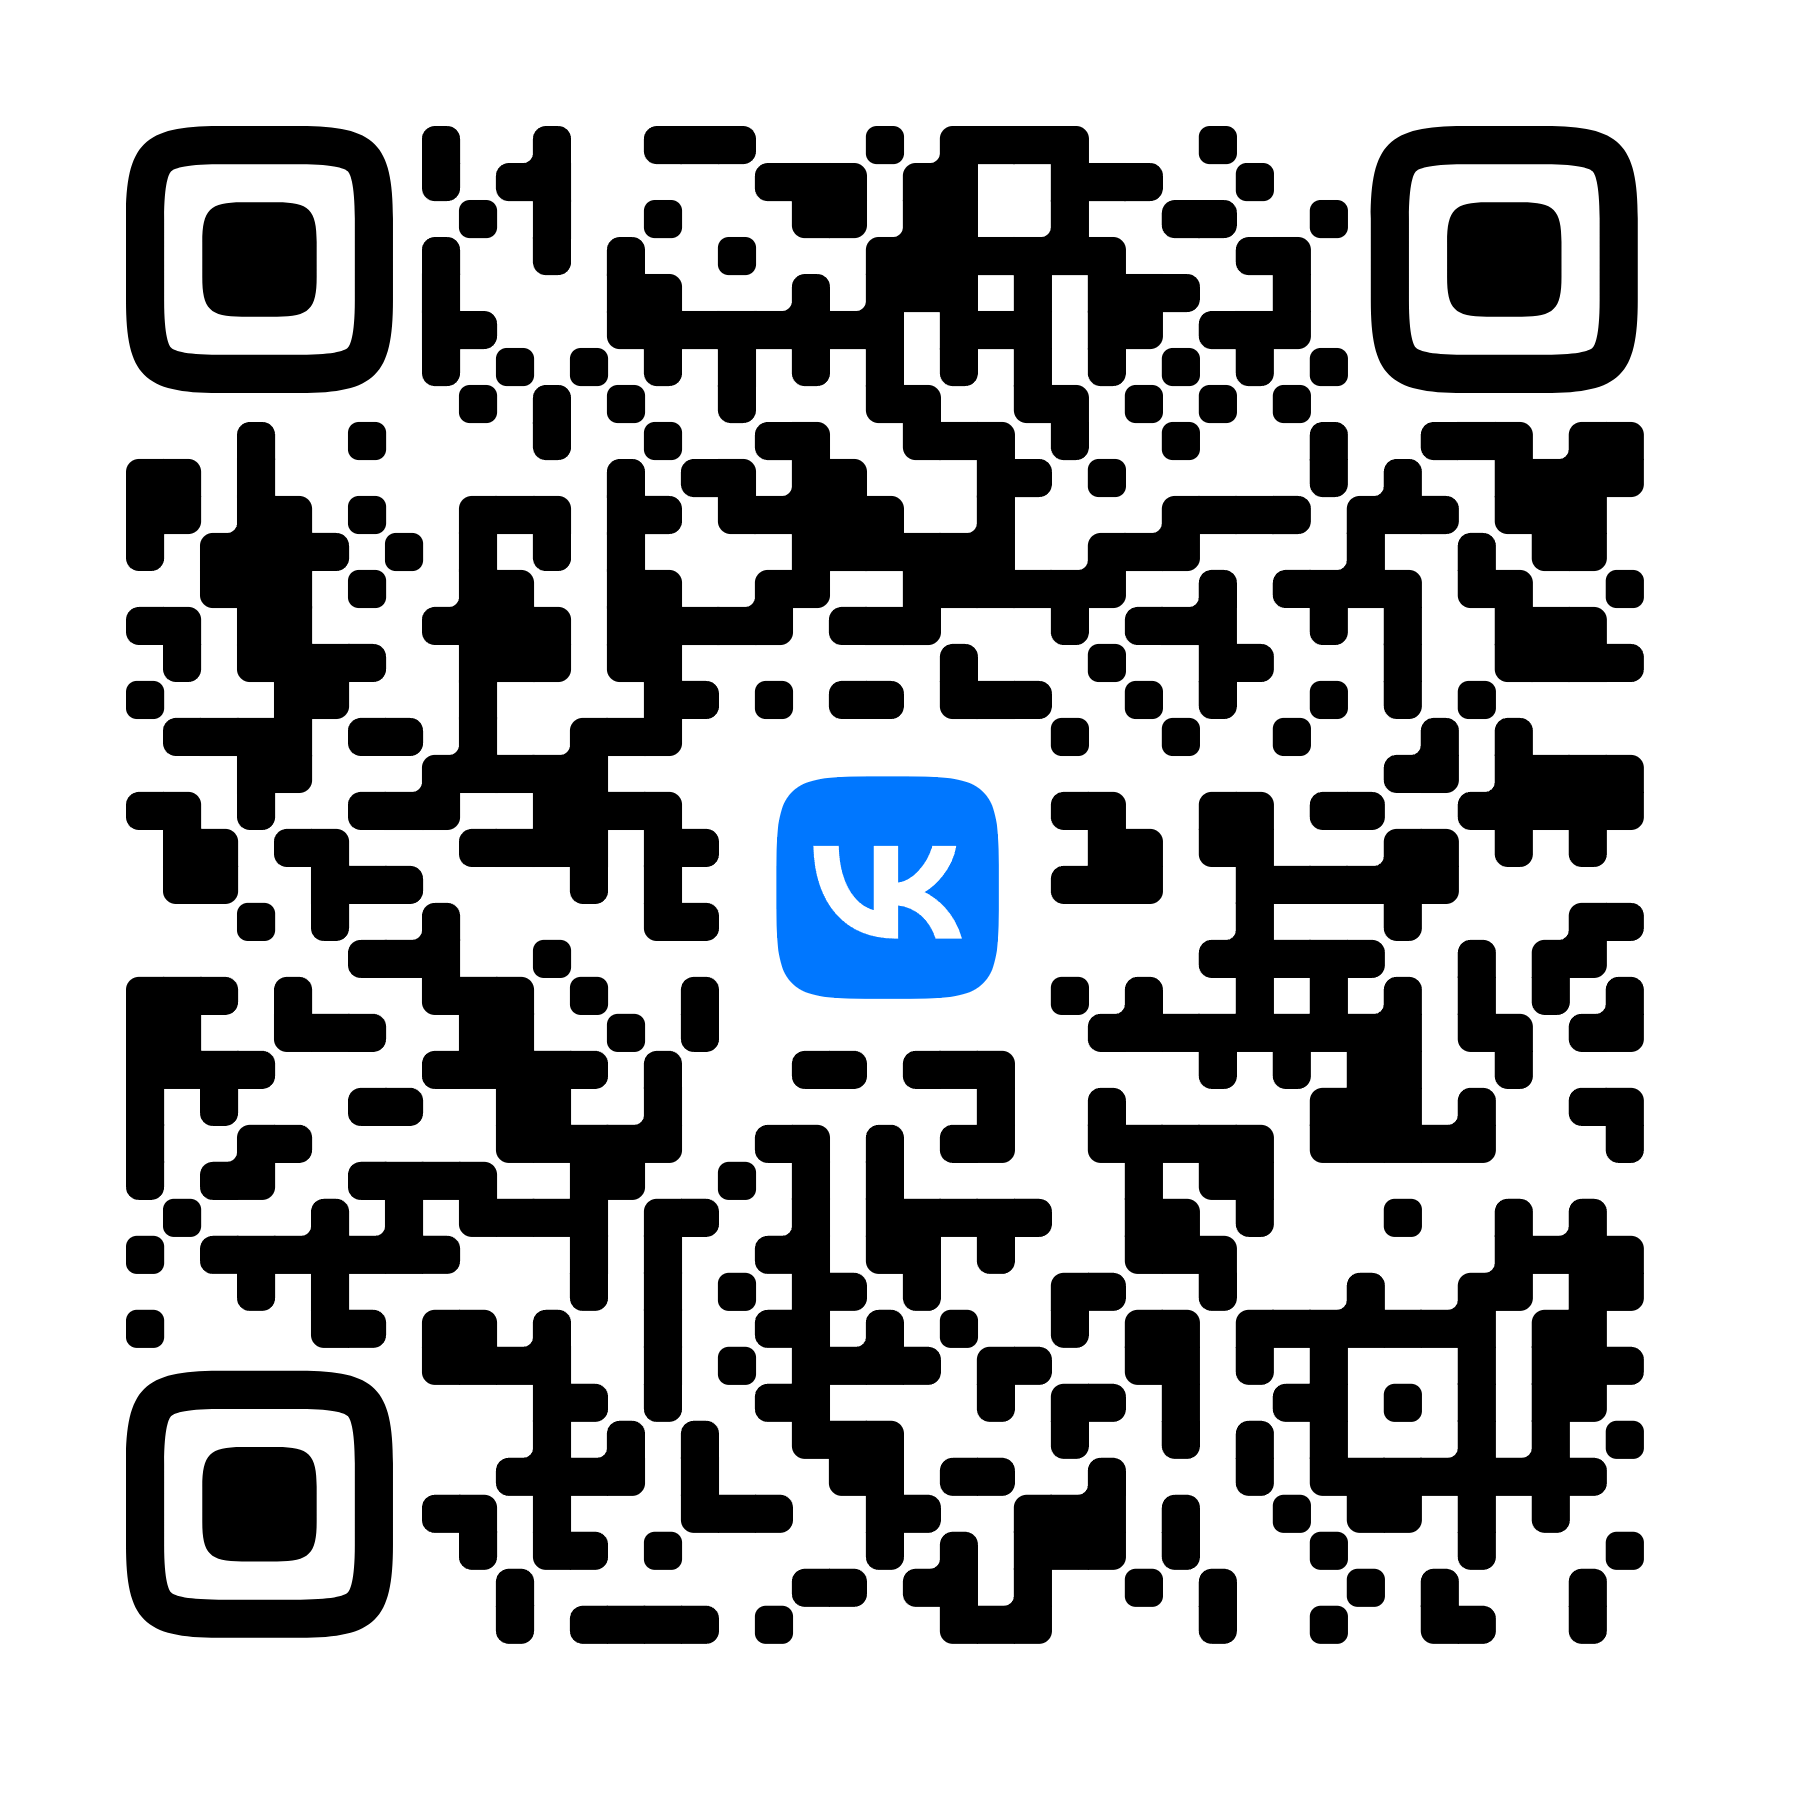
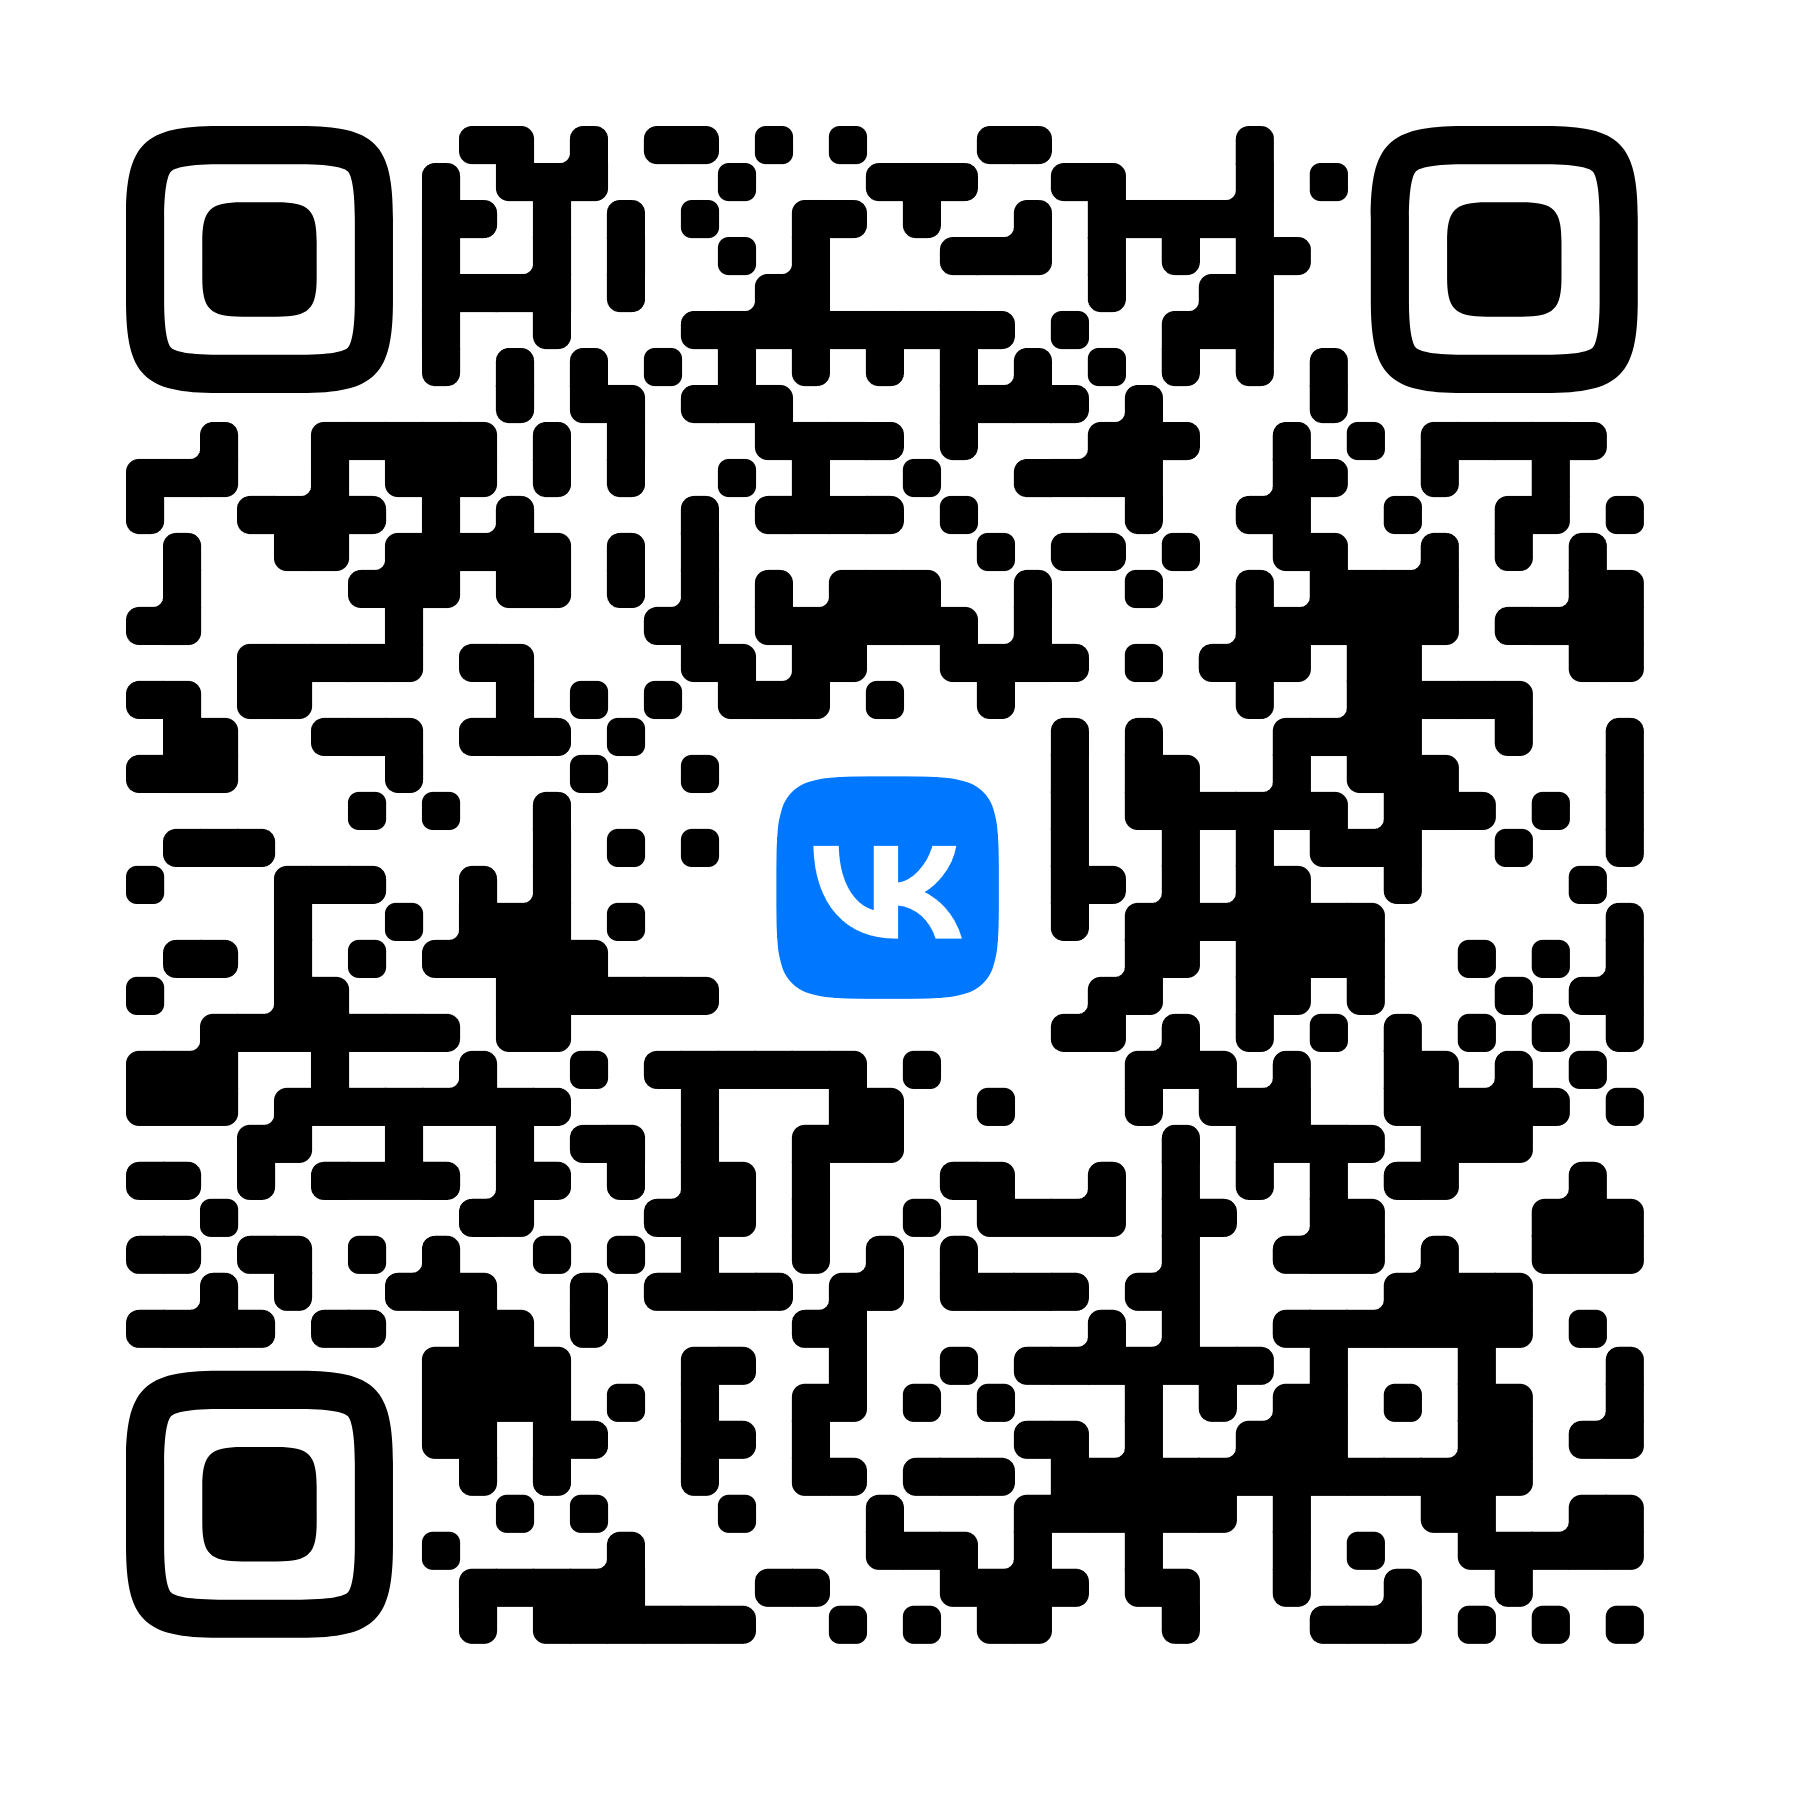
Изменил чат вк

Changed region(s): [[0.0622, 0.0622, 0.9333, 0.9333]]

diff --git a/invite-you-to-our-love-story.html b/invite-you-to-our-love-story.html
@@ -717,7 +717,7 @@
     <h2 class="script script-h">Пожелания</h2>
     <p class="lede">Лучший наш подарочек - это Вы!!! Но если хотите приблизить нас к мечте, то можете сделать вклад в конверте)</p>
     <p class="lede mt-lg">Большая просьба, не тратьтесь на цветы, нам нужны только ваши тёплые улыбки)</p>
-    <p class="lede mt-lg">Присоединяйтесь к чату Гостей в ВК по QR-коду или ссылке: <a href="https://vk.me/join/MpZ3Jg084lAaMYKwIXtPF7M9SpexxlV9vOs=">Присоединиться к чату ВК</a></p>
+    <p class="lede mt-lg">Присоединяйтесь к чату Гостей в ВК по QR-коду или ссылке: <a href="https://vk.me/join/gXZtb9/jcx41rlWIiD/anslpxQAPQ45PAlA=">Присоединиться к чату ВК</a></p>
     <img src="qrvk.png" alt="QR vk" style="display:block; width:50%; height:auto; margin:28px auto 0; box-shadow:0 10px 30px rgba(90,50,30,.18);">
   </section>
 
